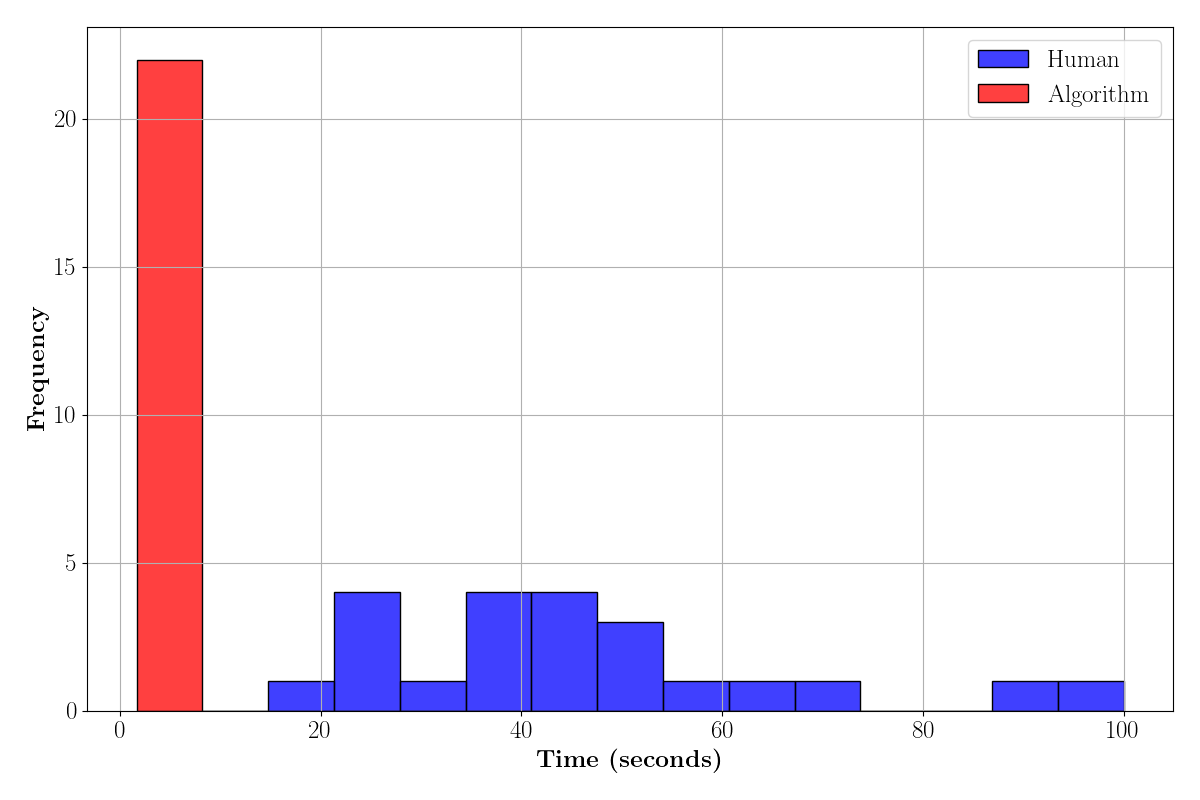
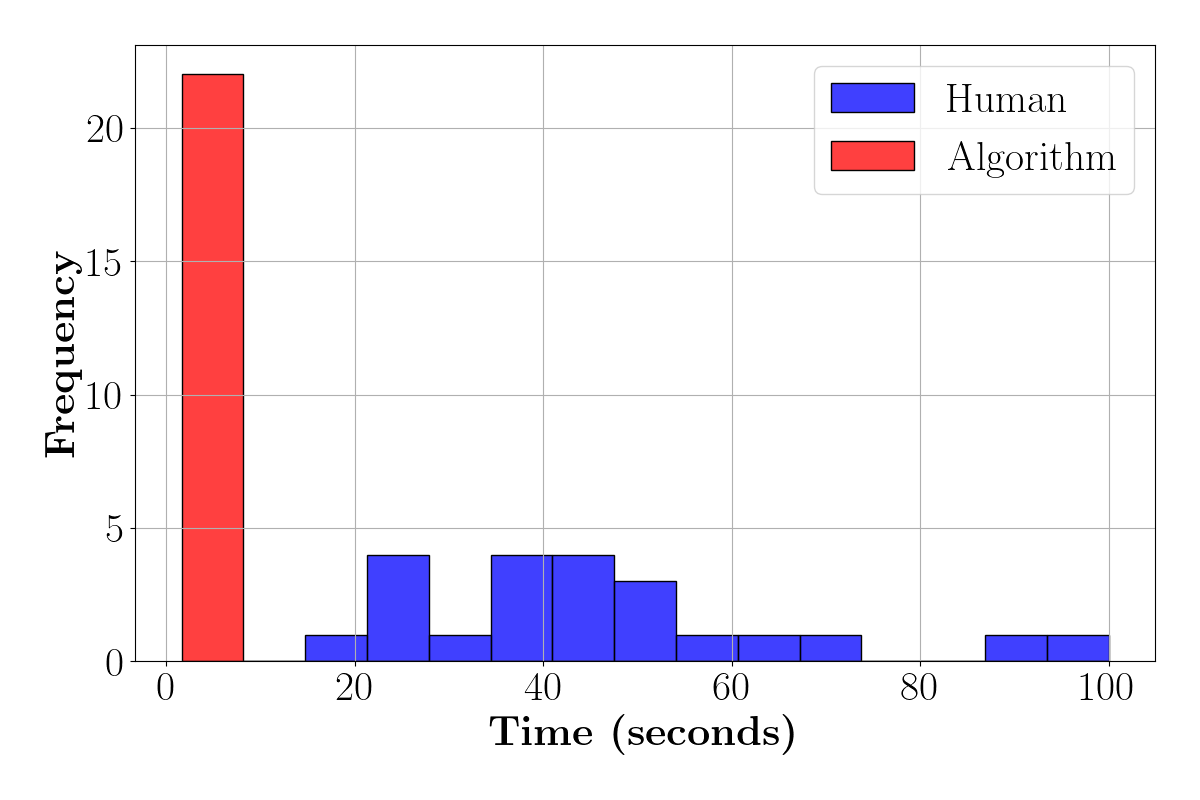
Pre-clean backup

diff --git a/Experimentation/labs/results/plot_faster_whisper_aggrgated_results.py b/Experimentation/labs/results/plot_faster_whisper_aggrgated_results.py
@@ -12,67 +12,36 @@ plt.rcParams.update({
     "text.usetex": True,
     "font.family": "serif",
     "font.serif": ["Computer Modern Roman"],
-    "font.size": 16,
-    "axes.titlesize": 16,
-    "axes.labelsize": 16,
-    "xtick.labelsize": 16,
-    "ytick.labelsize": 16,
-    "legend.fontsize": 16,
-    "figure.titlesize": 16,
+    "font.size": 38,
+    "axes.titlesize": 38,
+    "axes.labelsize": 38,
+    "xtick.labelsize": 38,
+    "ytick.labelsize": 38,
+    "legend.fontsize": 38,
+    "figure.titlesize": 38,
     "text.latex.preamble": r"\usepackage{amsmath}"
 })
 
 def load_results(summary_file):
     return pd.read_csv(summary_file)
 
-def generate_latency_vs_cpu_threads_plot(df_cpu):
-    plt.figure(figsize=(12, 8))
-    ax1 = sns.lineplot(data=df_cpu, x='cpu_threads', y='latency_mean', marker='o', label='Latency')
-    ax1.fill_between(df_cpu['cpu_threads'], 
-                     df_cpu['latency_mean'] - df_cpu['latency_std'], 
-                     df_cpu['latency_mean'] + df_cpu['latency_std'], alpha=0.2)
-    ax1.set_xlabel(r'\textbf{CPU Threads}', labelpad=14)
-    ax1.set_ylabel(r'\textbf{Latency (seconds)}', labelpad=14)
-    # ax1.set_title(r'Latency vs. CPU Threads for Faster Whisper Base with a Beam Size of 1')
-    ax1.set_title('')
-    ax1.legend(loc='upper left')
+def generate_plot(data, x, y1, y2, x_label, y1_label, y2_label, filename):
+    plt.figure(figsize=(14, 10))
+    ax = sns.lineplot(data=data, x=x, y=y1, marker='o', label='Latency (seconds)', legend=False)
+    ax.fill_between(data[x], data[y1] - data['latency_std'], data[y1] + data['latency_std'], alpha=0.2)
+    ax.set_xlabel(x_label, labelpad=20)
+    ax.set_ylabel(y1_label, labelpad=20)
     
-    ax2 = ax1.twinx()
-    sns.lineplot(data=df_cpu, x='cpu_threads', y='wer_mean', marker='o', color='orange', label='WER', ax=ax2)
-    # ax2.fill_between(df_cpu['cpu_threads'], 
-    #                  df_cpu['wer_mean'] - df_cpu['wer_std'], 
-    #                  df_cpu['wer_mean'] + df_cpu['wer_std'], color='orange', alpha=0.2)
-    ax2.set_ylabel(r'\textbf{WER}', labelpad=14)
-    ax2.legend(loc='upper right')
+    ax2 = ax.twinx()
+    sns.lineplot(data=data, x=x, y=y2, marker='o', color='orange', label="WER", ax=ax2, legend=False)
+    ax2.set_ylabel(y2_label, labelpad=20)
+
+    lines, labels = ax.get_legend_handles_labels()
+    lines2, labels2 = ax2.get_legend_handles_labels()
+    ax2.legend(lines + lines2, labels + labels2, loc='upper center', bbox_to_anchor=(0.5, 1.15), ncol=2, frameon=False, prop={'weight': 'normal'})
     
     plt.tight_layout()
-    plt.subplots_adjust(left=0.1, right=0.9, top=0.9, bottom=0.1)
-    plt.savefig(os.path.join(results_dir, 'latency_vs_cpu_threads.png'))
-    plt.show()
-
-def generate_latency_vs_beam_size_plot(df_beam):
-    plt.figure(figsize=(12, 8))
-    ax3 = sns.lineplot(data=df_beam, x='beam_size', y='latency_mean', marker='o', label='Latency')
-    ax3.fill_between(df_beam['beam_size'], 
-                     df_beam['latency_mean'] - df_beam['latency_std'], 
-                     df_beam['latency_mean'] + df_beam['latency_std'], alpha=0.2)
-    ax3.set_xlabel(r'\textbf{Beam Size}', labelpad=14)
-    ax3.set_ylabel(r'\textbf{Latency (seconds)}', labelpad=14)
-    # ax3.set_title(r'Latency vs. Beam Size for Faster Whisper Base with 4 Threads')
-    ax3.set_title('')
-    ax3.legend(loc='upper left')
-
-    ax4 = ax3.twinx()
-    sns.lineplot(data=df_beam, x='beam_size', y='wer_mean', marker='o', color='orange', label='WER', ax=ax4)
-    ax4.fill_between(df_beam['beam_size'], 
-                     df_beam['wer_mean'] - df_beam['wer_std'], 
-                     df_beam['wer_mean'] + df_beam['wer_std'], color='white', alpha=0)
-    ax4.set_ylabel(r'\textbf{WER}', labelpad=14)
-    ax4.legend(loc='upper right')
-
-    plt.subplots_adjust(left=0.1, right=0.9, top=0.9, bottom=0.1)
-    plt.tight_layout()
-    plt.savefig(os.path.join(results_dir, 'latency_vs_beam_size.png'))
+    plt.savefig(os.path.join(results_dir, filename), bbox_inches='tight')
     plt.show()
 
 def main():
@@ -82,9 +51,13 @@ def main():
     df_cpu = results_df[results_df['beam_size'] == 1]
     df_beam = results_df[results_df['cpu_threads'] == 4]
     
-    # Generate plots
-    generate_latency_vs_cpu_threads_plot(df_cpu)
-    generate_latency_vs_beam_size_plot(df_beam)
+    # Generate plots with consistent sizes
+    generate_plot(df_cpu, 'cpu_threads', 'latency_mean', 'wer_mean', 
+                  r'\textbf{CPU Threads}', r'\textbf{Latency (seconds)}', r'\textbf{WER}', 
+                  'latency_vs_cpu_threads.png')
+    generate_plot(df_beam, 'beam_size', 'latency_mean', 'wer_mean', 
+                  r'\textbf{Beam Size}', r'\textbf{Latency (seconds)}', r'\textbf{WER}', 
+                  'latency_vs_beam_size.png')
 
 if __name__ == '__main__':
     main()

diff --git a/Backend/server/grpc/python/performer_tracker/performer_tracker.py b/Backend/server/grpc/python/performer_tracker/performer_tracker.py
@@ -5,9 +5,12 @@ import sys
 import json
 import uuid
 import numpy as np
+import time
+import csv
 from collections import defaultdict, deque
 from ultralytics import YOLO
 from ultralytics.utils.plotting import Annotator, colors
+import asyncio
 
 sys.path.append(os.path.abspath(os.path.join(os.path.dirname(__file__))))
 
@@ -16,7 +19,6 @@ from light_control.controller import LightController
 from light_control.pan_tilt_calculator import PanTiltCalculator, LightPositionUpdater
 from utils.homography import apply_homography, seg_to_bbox, get_center_point
 from video_processing import process_frame
-import asyncio
 
 class PerformerTracker:
     def __init__(self, settings, status_queue=None):
@@ -32,6 +34,21 @@ class PerformerTracker:
         self.light_controller = None
         self.stop = False
         self.reid_model = PersonReID()
+
+        # Initialize CSV file for timing data
+        self.csv_file = 'execution_times_performer.csv'
+        self.setup_csv()
+
+    def setup_csv(self):
+        with open(self.csv_file, 'w', newline='') as csvfile:
+            fieldnames = ['Step', 'Time (seconds)']
+            writer = csv.DictWriter(csvfile, fieldnames=fieldnames)
+            writer.writeheader()
+
+    def save_timings_to_csv(self, step, timing):
+        with open(self.csv_file, 'a', newline='') as csvfile:
+            writer = csv.writer(csvfile)
+            writer.writerow([step, timing])
 
     def setup_logging(self):
         logging_level = getattr(
@@ -98,11 +115,23 @@ class PerformerTracker:
 
             retry_count = 0  # Reset retry count on successful frame read
 
+            # Measure time for processing frame
+            fetch_start_time = time.time()
             frame = self.process_and_transform_frame(frame)
+            fetch_time = time.time() - fetch_start_time
+            self.save_timings_to_csv('Fetch buffer', fetch_time)
+
             annotator = Annotator(frame.copy(), line_width=2)
+
+            # Measure time for detection
+            asr_start_time = time.time()
             results = model.track(source=frame, persist=True)
+            asr_time = time.time() - asr_start_time
+            self.save_timings_to_csv('Tracking', asr_time)
 
             if results[0].boxes.id is not None and results[0].masks is not None:
+                # Measure time for window search
+                
                 self.process_detections(
                     results[0],
                     frame,
@@ -185,6 +214,8 @@ class PerformerTracker:
         database,
         uncertain_database,
     ):
+        process_detections_start_time = time.time()
+
         masks = result.masks.xy
         track_ids = result.boxes.id.int().cpu().tolist()
         track_masks = zip(track_ids, masks)  # Combine track IDs and masks
@@ -248,11 +279,17 @@ class PerformerTracker:
                 color=self.user_colors.get(self.yolo_id_to_user.get(track_id, track_id), colors(track_id, True))
             )
 
+            process_detections_search_time = time.time() - process_detections_start_time
+            self.save_timings_to_csv('Re-ID', process_detections_search_time)
+
         if (
             self.settings["performer_tracker"]["tracked_user_id"]
             in self.yolo_id_to_user.values()
         ):
+            update_light_position_time_start = time.time
             self.update_light_position(track_masks, frame, annotator)
+            pdate_light_position_search_time = time.time() - update_light_position_time_start
+            self.save_timings_to_csv('Update light ps', pdate_light_position_search_time)
 
     def is_bbox_valid(self, x1, y1, x2, y2, frame):
         return (
@@ -403,8 +440,6 @@ class PerformerTracker:
                 # Display the lowest point on the frame
                 cv2.circle(frame, (int(center_point[0][0][0]), int(center_point[0][0][1])), 5, (0, 255, 0), -1)
                 annotator.result = frame  # Update the annotator with the new frame
-
-
 
     def perform_homography(self, frame):
         if len(self.src_points) == 4:

diff --git a/Experimentation/benchmark_performer_tracker.py b/Experimentation/benchmark_performer_tracker.py
@@ -1,0 +1,78 @@
+import pandas as pd
+import matplotlib.pyplot as plt
+import seaborn as sns
+
+# Configure Matplotlib to use LaTeX for text rendering
+plt.rcParams.update({
+    "text.usetex": True,
+    "font.family": "serif",
+    "font.serif": ["Computer Modern Roman"],
+    "font.size": 26,
+    "axes.titlesize": 26,
+    "axes.labelsize": 26,
+    "xtick.labelsize": 26,
+    "ytick.labelsize": 26,
+    "legend.fontsize": 26,
+    "figure.titlesize": 26,
+    "text.latex.preamble": r"\usepackage{amsmath}"
+})
+
+# Data
+data = {
+    "Fetch Buffer \n and Pre-Processing": [
+        0.8718247414, 0.9103028774, 0.531275034, 0.5505681038, 0.5383820534, 
+        0.5289866924, 0.5326180458, 0.5433218479, 0.568944931, 0.5903277397, 
+        0.642802, 0.625672102, 0.6759359837, 0.6466088295, 0.7423963547, 
+        0.719960928, 0.9091169834, 0.6852548122, 0.7077140808, 0.6733586788, 
+        0.6584811211, 0.6458590031, 0.600312233, 0.5921840668, 0.8103761673, 
+        0.5673468113, 0.5672330856, 0.5791602135, 0.6337368488, 0.5751459599, 
+        0.58710289, 0.5772271156
+    ],
+    "Tracking": [
+        6.419838905, 0.2259478569, 0.2317678928, 0.3635749817, 0.2147982121, 
+        0.2329747677, 0.2157540321, 0.2199459076, 0.2266950607, 0.2335758209, 
+        0.2406463623, 0.2441198826, 0.2583370209, 0.2597999573, 0.2728419304, 
+        0.284965992, 0.2695839405, 0.2690701485, 0.2722189426, 0.264644146, 
+        0.2531890869, 0.2508709431, 0.2307300568, 0.2351877689, 0.223875761, 
+        0.223760128, 0.221511364, 0.2196810246, 0.2702550888, 0.2261288166, 
+        0.229186058, 0.2341930866
+    ],
+    "Re-ID": [
+        0.1839702129, 0.1803410053, 0.1972899437, 0.1854219437, 0.1792080402, 
+        0.1827659607, 0.1903643608, 0.190623045, 0.1943511963, 0.2001581192, 
+        0.214815855, 0.2235178947, 0.2213468552, 0.2293329239, 0.248347044, 
+        0.2677869797, 0.2366960049, 0.2506308556, 0.2325587273, 0.2241621017, 
+        0.2158339024, 0.2361240387, 0.1954448223, 0.2211358547, 0.1882789135, 
+        0.2036688328, 0.1935842037, 0.1943721771, 0.2022218704, 0.198251009, 
+        0.1978957653, 0.2040040493
+    ],
+    "Update Light Position": [
+        0.001297950745, 0.0006923675537, 0.00053191185, 0.0006370544434, 0.0007040500641, 
+        0.0005781650543, 0.000834941864, 0.0005717277527, 0.0007059574127, 0.0005929470062, 
+        0.0006330013275, 0.0006630420685, 0.0006928443909, 0.0006930828094, 0.0007538795471, 
+        0.001207113266, 0.0006949901581, 0.0007078647614, 0.0006778240204, 0.0006620883942, 
+        0.0006940364838, 0.0006620883942, 0.0006268024445, 0.0008478164673, 0.0006437301636, 
+        0.0005960464478, 0.0007648468018, 0.0005791187286, 0.0009400844574, 0.0005650520325, 
+        0.0005781650543, 0.0006248950958
+    ]
+}
+
+# Create a DataFrame
+df = pd.DataFrame(data)
+
+# Calculate the means and standard deviations
+means = df.mean()
+stds = df.std()
+
+# Create a bar plot with error bars
+plt.figure(figsize=(12, 8))
+plt.bar(means.index, means.values, capsize=10, color='skyblue')
+
+plt.xlabel(r'\textbf{Steps}', labelpad=14)
+plt.ylabel(r'\textbf{Mean Time (seconds)}', labelpad=14)
+# plt.title(r'\textbf{Mean Execution Time with Standard Deviation}')
+plt.title("")
+plt.grid(True)
+plt.tight_layout()
+plt.savefig('performer_tracker_mean_execution_times_with_std.png')
+plt.show()

diff --git a/Experimentation/speech_to_script_pointer_speed.py b/Experimentation/speech_to_script_pointer_speed.py
@@ -7,19 +7,19 @@ plt.rcParams.update({
     "text.usetex": True,
     "font.family": "serif",
     "font.serif": ["Computer Modern Roman"],
-    "font.size": 18,
-    "axes.titlesize": 18,
-    "axes.labelsize": 18,
-    "xtick.labelsize": 18,
-    "ytick.labelsize": 18,
-    "legend.fontsize": 18,
-    "figure.titlesize": 18,
+    "font.size": 26,
+    "axes.titlesize": 26,
+    "axes.labelsize": 26,
+    "xtick.labelsize": 26,
+    "ytick.labelsize": 26,
+    "legend.fontsize": 26,
+    "figure.titlesize": 26,
     "text.latex.preamble": r"\usepackage{amsmath}"
 })
 
 # Data
 data = {
-    "Fetch buffer": [
+    "Fetch Buffer": [
         0.01007175446, 0.01220583916, 0.009603261948, 0.01023197174, 0.104829073,
         0.01054692268, 0.009299278259, 0.01579165459, 0.008280992508, 0.1069886684,
         0.009749650955, 0.01116418839, 0.007652997971, 0.008293390274, 0.2391963005,
@@ -33,7 +33,7 @@ data = {
         4.089136124, 3.735254049, 3.223296165, 2.823484898, 4.351235867,
         2.956062078, 2.829329729, 2.904309988, 2.915719986
     ],
-    "Window search": [
+    "Window Search": [
         0.001641988754, 0.001670837402, 0.001358032227, 0.003301143646, 0.001801252365,
         0.001640081406, 0.001871109009, 0.001602172852, 0.02634906769, 0.003570795059,
         0.004283905029, 0.004087924957, 0.003261804581, 0.03476309776, 0.003292322159,
@@ -51,7 +51,7 @@ stds = df.std()
 
 # Create a bar plot with error bars
 plt.figure(figsize=(12, 8))
-plt.bar(means.index, means.values, yerr=stds.values, capsize=10, color='skyblue')
+plt.bar(means.index, means.values, capsize=10, color='skyblue')
 
 plt.xlabel(r'\textbf{Steps}', labelpad=14)
 plt.ylabel(r'\textbf{Mean Time (seconds)}', labelpad=14)

diff --git a/Experimentation/benchmark_speech_to_script_pointer.py b/Experimentation/benchmark_speech_to_script_pointer.py
@@ -8,13 +8,13 @@ plt.rcParams.update({
     "text.usetex": True,
     "font.family": "serif",
     "font.serif": ["Computer Modern Roman"],
-    "font.size": 18,
-    "axes.titlesize": 18,
-    "axes.labelsize": 18,
-    "xtick.labelsize": 18,
-    "ytick.labelsize": 18,
-    "legend.fontsize": 18,
-    "figure.titlesize": 18,
+    "font.size": 30,
+    "axes.titlesize": 30,
+    "axes.labelsize": 30,
+    "xtick.labelsize": 30,
+    "ytick.labelsize": 30,
+    "legend.fontsize": 30,
+    "figure.titlesize": 30,
     "text.latex.preamble": r"\usepackage{amsmath}"
 })
 
